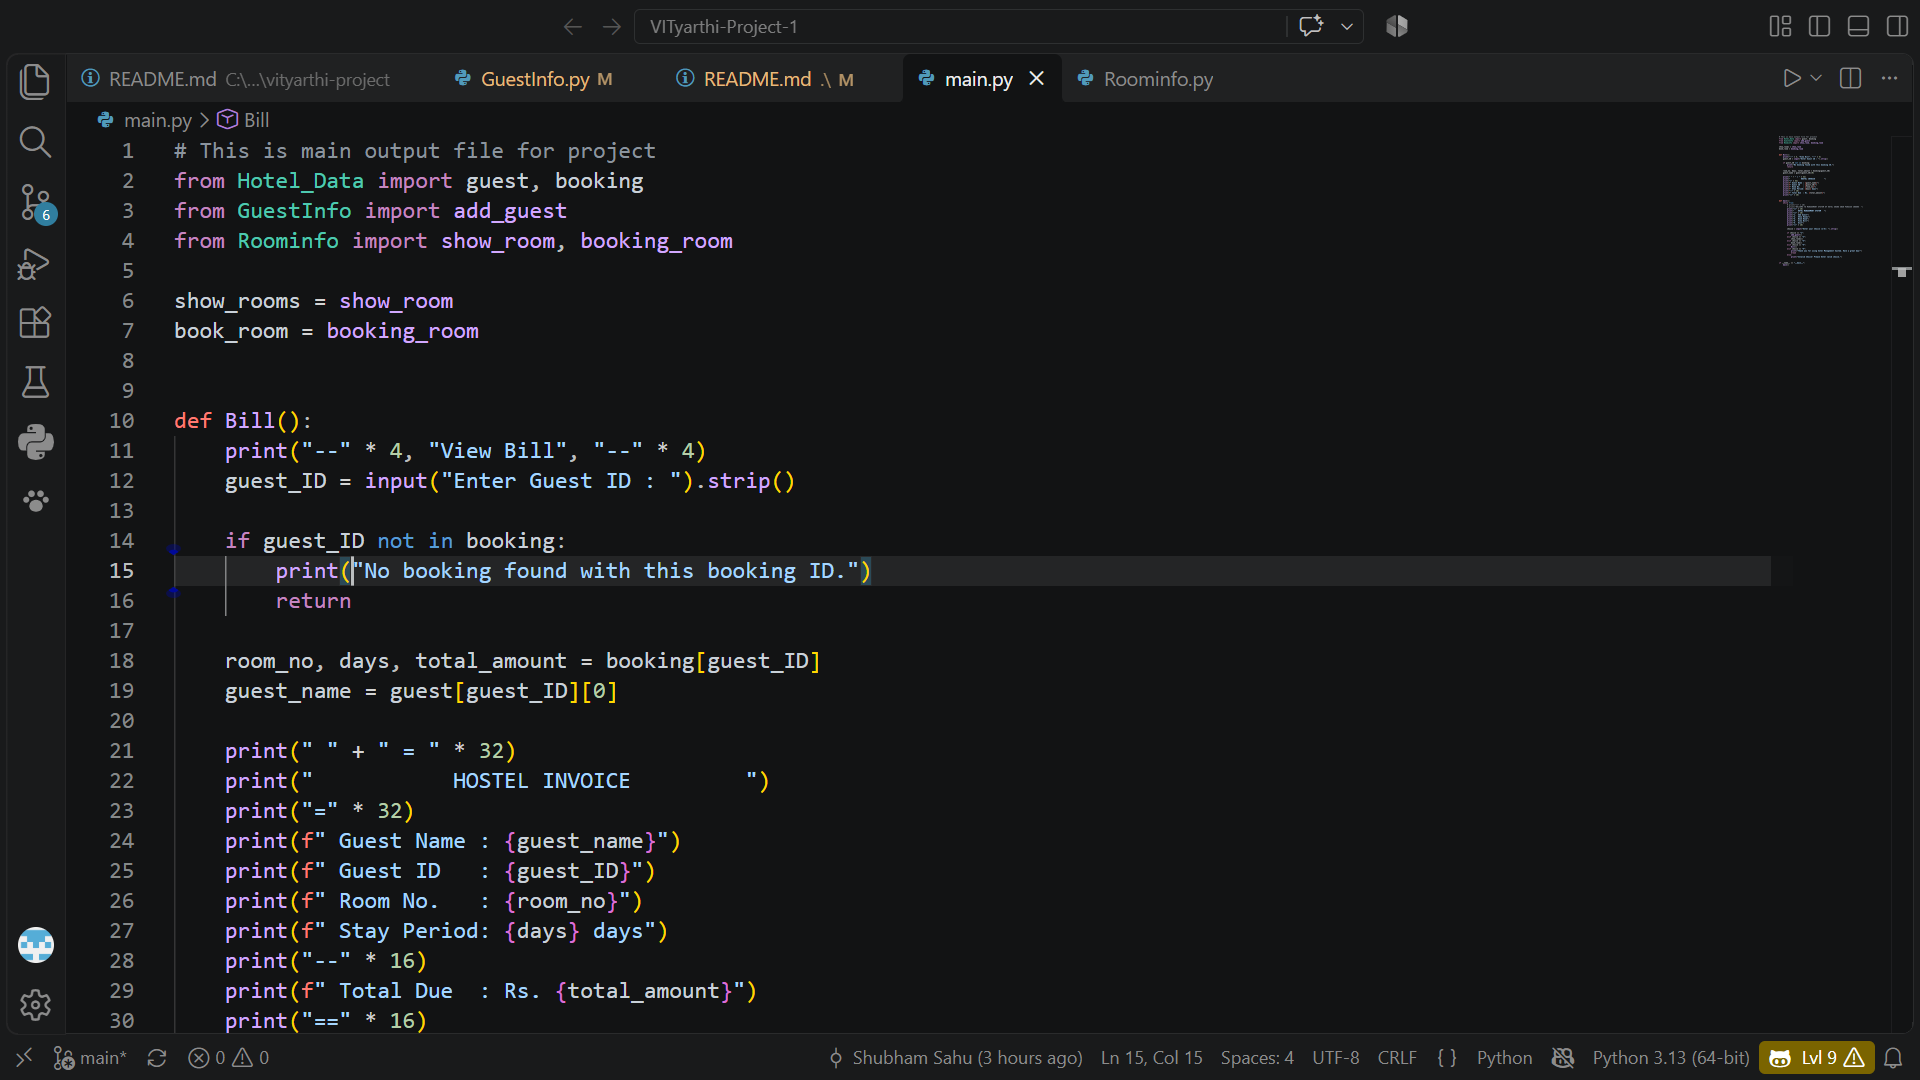
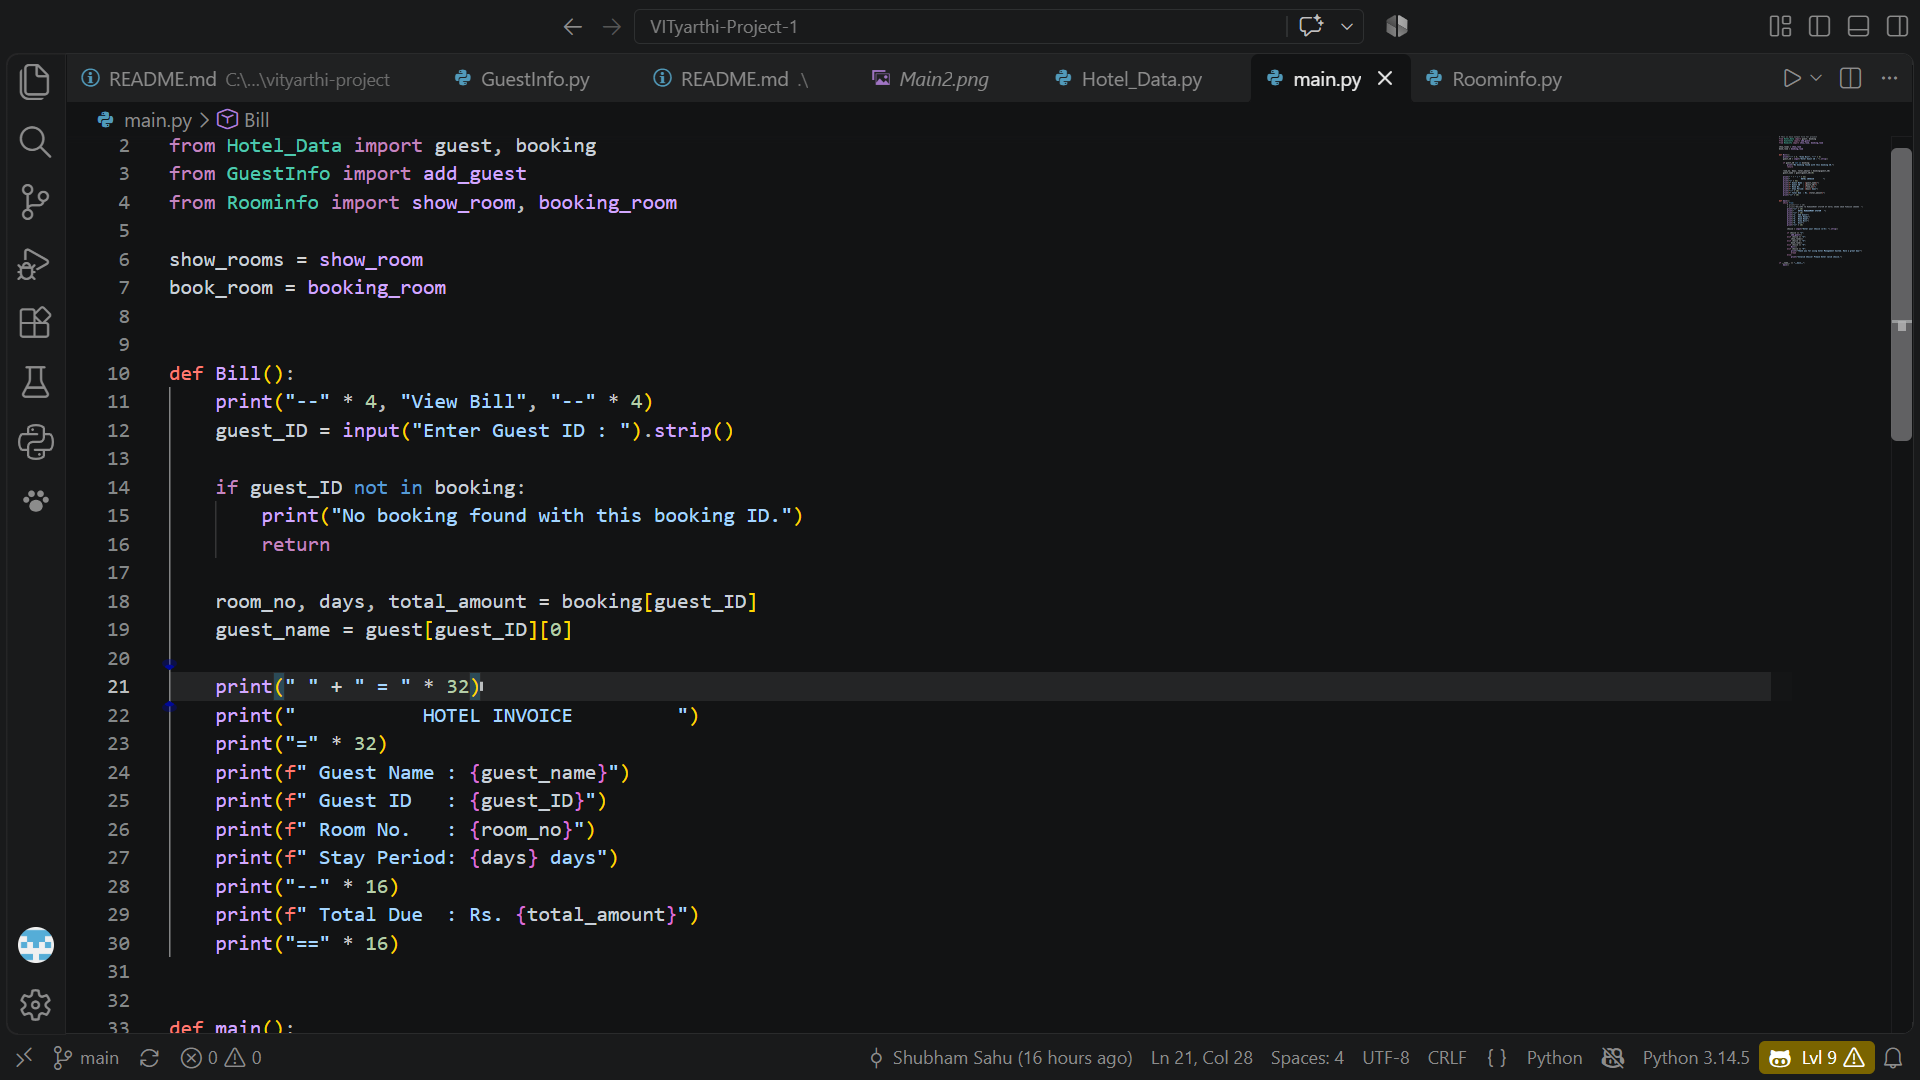
update

diff --git a/main.py b/main.py
@@ -18,7 +18,7 @@ def Bill():
     room_no, days, total_amount = booking[guest_ID]
     guest_name = guest[guest_ID][0]
 
-    print(" " + " = " * 32)
+    print("" + "=" * 32)
     print("           HOTEL INVOICE         ")
     print("=" * 32)
     print(f" Guest Name : {guest_name}")

diff --git a/README.md b/README.md
@@ -183,7 +183,12 @@ The project also contains a separate file called `GuestInfo.py`, which is used f
 
 After running the program, we can use the options provided by the Hotel Management System.
 
-The complete output of my project can be seen below:
+The complete output of my project can be seen below
+![OUTPUT1](screenshots/Screenshot/OUTPUT1.png)
+![OUTPUT2](screenshots/Screenshot/OUTPUT2.png)
+![OUTPUT3](screenshots/Screenshot/OUTPUT3.png)
+![OUTPUT4](screenshots/Screenshot/OUTPUT4.png)
+![OUTPUT5](screenshots/Screenshot/OUTPUT5.png)
 
 
 ---
